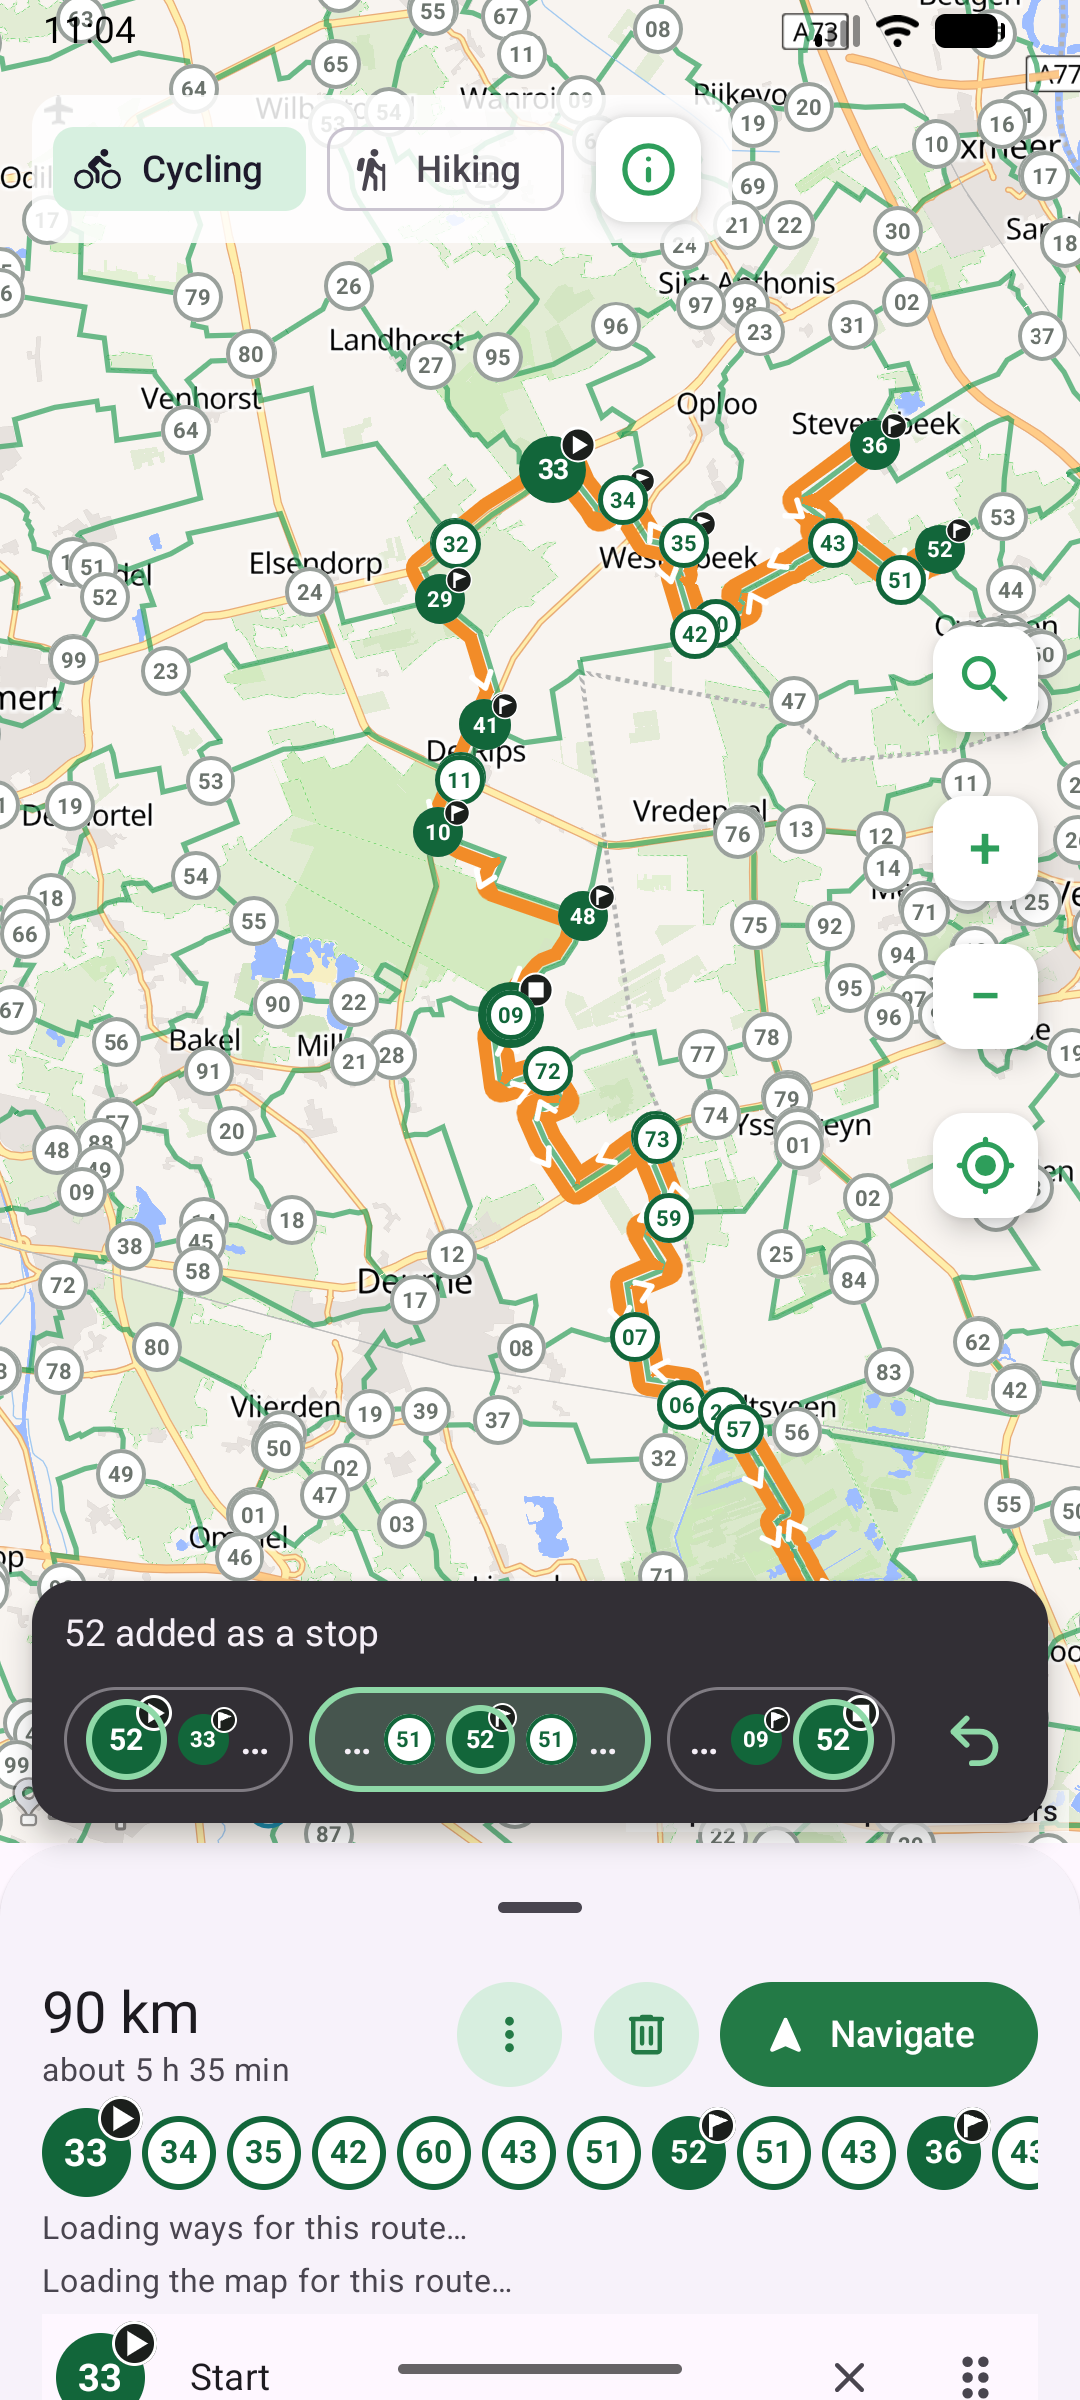
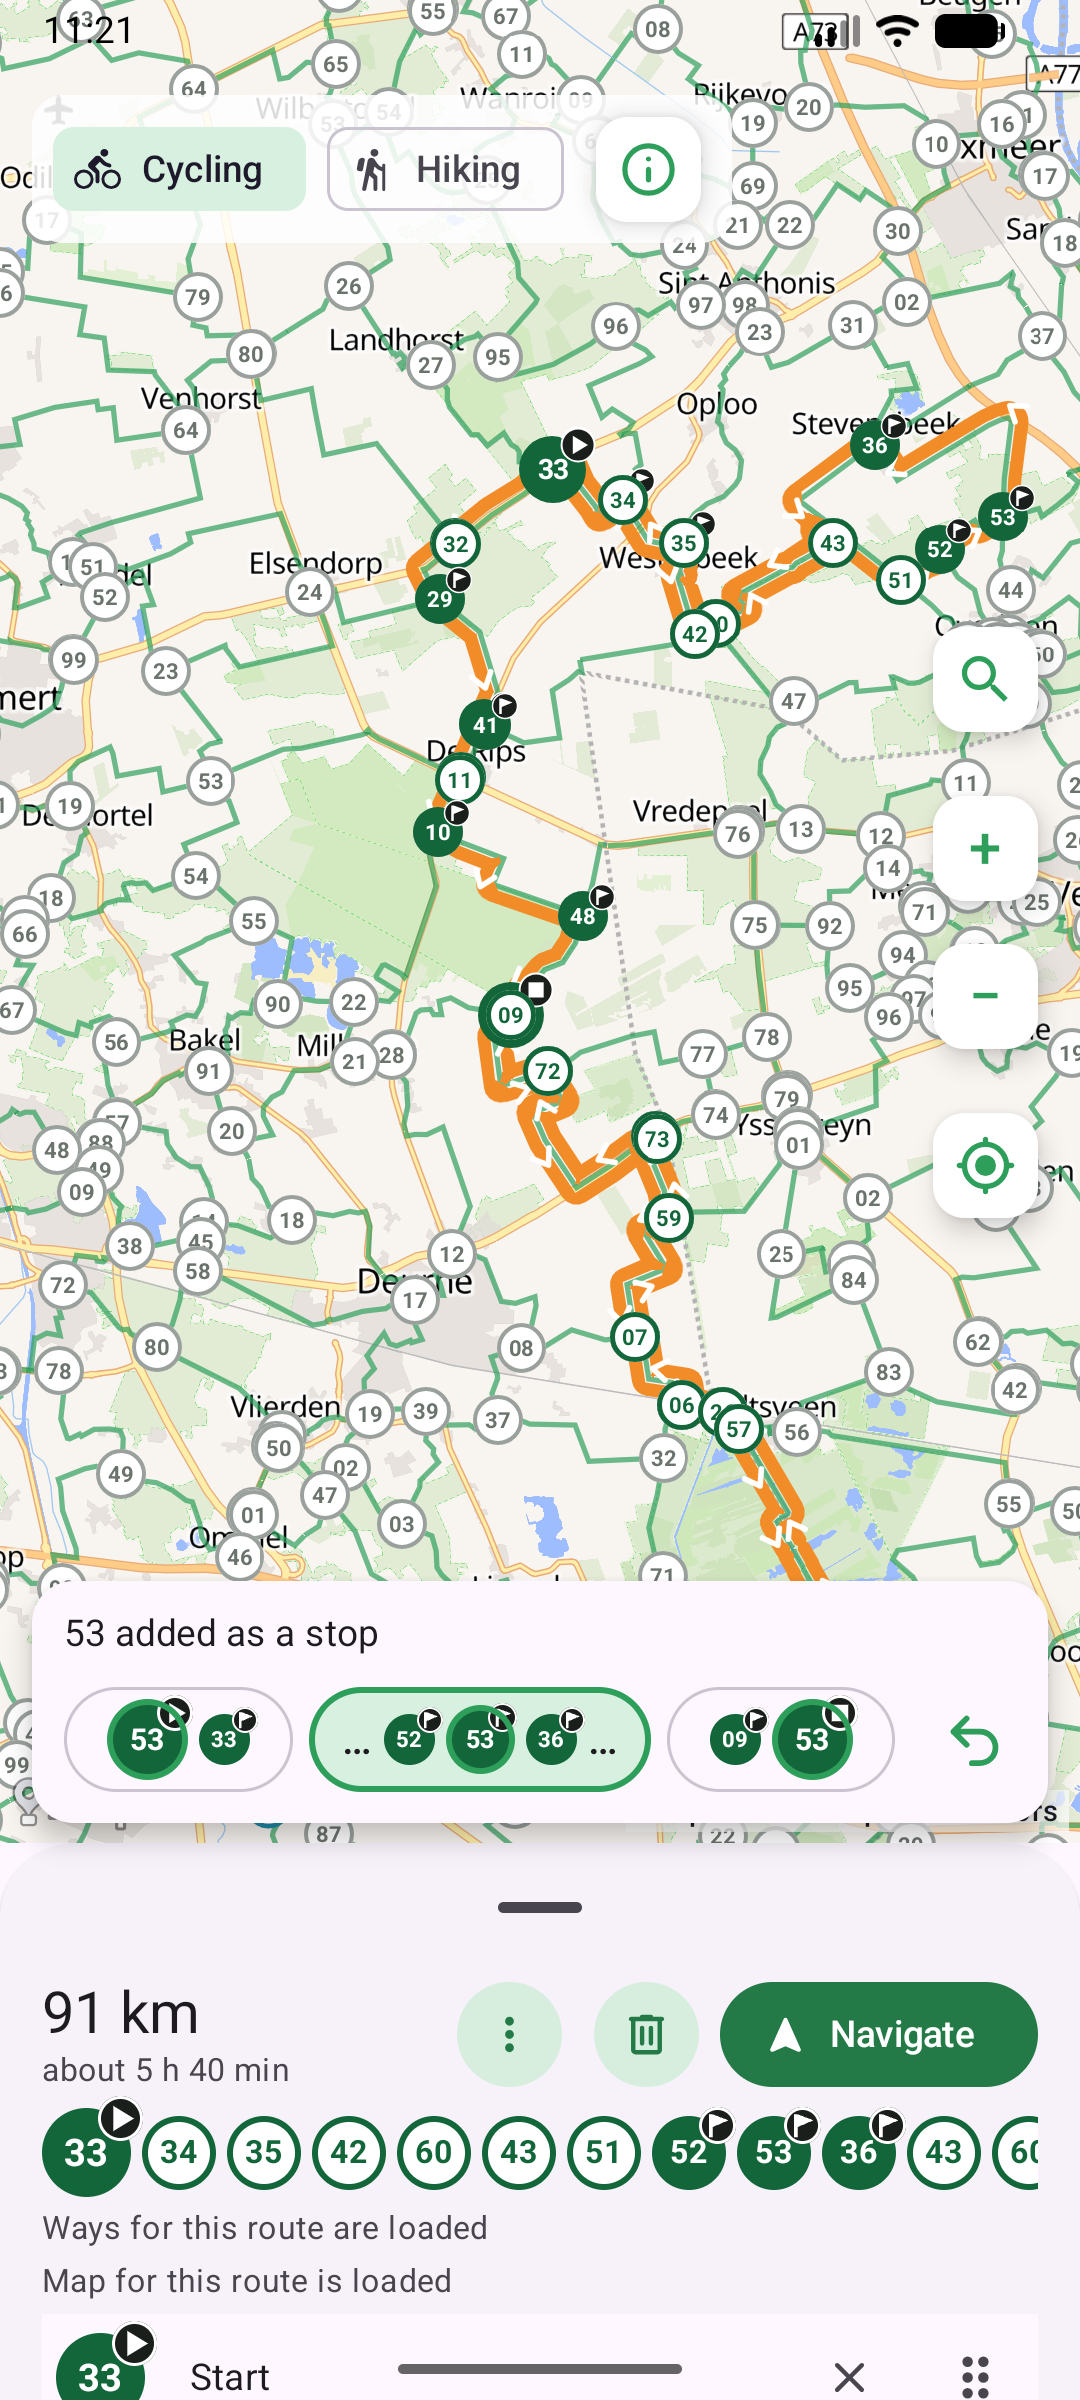
Light note on Android, Liquid Glass on iOS
The note after a tap holds buttons with badges, so on Android it now has the
panel's light surface instead of a dark snackbar's, and on iOS the floating
glass background of the map's other controls.

Claude-Session: https://claude.ai/code/session_01SYDZ2XdPXqQwKTCYKUKZEP

diff --git a/apps/android/src/main/kotlin/com/knoopbyknoop/android/PlannerScreen.kt b/apps/android/src/main/kotlin/com/knoopbyknoop/android/PlannerScreen.kt
@@ -777,10 +777,11 @@ private fun TapNoteCard(note: TapNote, viewModel: AppViewModel, modifier: Modifi
   LaunchedEffect(note.id) {
     pop.animateTo(1f, spring(dampingRatio = 0.45f, stiffness = Spring.StiffnessMediumLow))
   }
+  // Light like the panel and the map buttons, see "Changing what a tapped knot became".
   Surface(
     shape = MaterialTheme.shapes.large,
-    color = MaterialTheme.colorScheme.inverseSurface,
-    contentColor = MaterialTheme.colorScheme.inverseOnSurface,
+    color = MaterialTheme.colorScheme.surface,
+    contentColor = MaterialTheme.colorScheme.onSurface,
     shadowElevation = 6.dp,
     modifier = modifier.padding(horizontal = 12.dp, vertical = 8.dp).fillMaxWidth(),
   ) {
@@ -810,22 +811,21 @@ private fun TapNoteCard(note: TapNote, viewModel: AppViewModel, modifier: Modifi
                 WaypointRole.STOP -> R.string.tap_choice_as_stop
               }
             )
-          val selected = MaterialTheme.colorScheme.inversePrimary
+          val selected = MaterialTheme.colorScheme.primary
           OutlinedButton(
             onClick = { viewModel.chooseTap(choice) },
             enabled = !choice.current,
             contentPadding = PaddingValues(horizontal = 4.dp, vertical = 0.dp),
             colors =
               ButtonDefaults.outlinedButtonColors(
-                contentColor = MaterialTheme.colorScheme.inverseOnSurface,
-                disabledContentColor = MaterialTheme.colorScheme.inverseOnSurface,
-                disabledContainerColor = selected.copy(alpha = 0.22f),
+                contentColor = MaterialTheme.colorScheme.onSurface,
+                disabledContentColor = MaterialTheme.colorScheme.onSurface,
+                disabledContainerColor = MaterialTheme.colorScheme.secondaryContainer,
               ),
             border =
               BorderStroke(
                 if (choice.current) 2.dp else 1.dp,
-                if (choice.current) selected
-                else MaterialTheme.colorScheme.inverseOnSurface.copy(alpha = 0.4f),
+                if (choice.current) selected else MaterialTheme.colorScheme.outlineVariant,
               ),
             modifier =
               Modifier.weight(if (choice.role == WaypointRole.STOP) 1.5f else 1f)
@@ -842,7 +842,7 @@ private fun TapNoteCard(note: TapNote, viewModel: AppViewModel, modifier: Modifi
           Icon(
             painterResource(R.drawable.ic_undo),
             contentDescription = stringResource(R.string.tap_note_undo),
-            tint = MaterialTheme.colorScheme.inversePrimary,
+            tint = MaterialTheme.colorScheme.primary,
           )
         }
       }
@@ -882,7 +882,7 @@ private fun KnotPreviewRow(
                 scaleX = highlightScale
                 scaleY = highlightScale
               }
-              .border(2.dp, MaterialTheme.colorScheme.inversePrimary, CircleShape)
+              .border(2.dp, MaterialTheme.colorScheme.primary, CircleShape)
               .padding(2.dp)
           else Modifier.clearAndSetSemantics {},
       ) {

diff --git a/apps/android/src/main/kotlin/com/knoopbyknoop/android/Theme.kt b/apps/android/src/main/kotlin/com/knoopbyknoop/android/Theme.kt
@@ -17,9 +17,6 @@ private val lightColors =
     secondary = Color(0xFFF28C28),
     secondaryContainer = Color(0xFFD7F0E0),
     surfaceVariant = Color(0xFFEEF1EA),
-    // The green on the dark note after a tap, see `map-planning` "Changing what a tapped knot
-    // became".
-    inversePrimary = Color(0xFF8FD9A8),
   )
 
 /** The same green and orange on dark surfaces, see `map-planning` "Light and dark appearance". */
@@ -31,8 +28,6 @@ private val darkColors =
     secondaryContainer = Color(0xFF1E3B2B),
     onSecondaryContainer = Color(0xFFD7F0E0),
     surfaceVariant = Color(0xFF2B2F2A),
-    // The green on the light note after a tap.
-    inversePrimary = Color(0xFF1B6B3D),
     // A clear red, not Material's pale pink: at least 4.5:1 on the dark surfaces, see
     // `map-planning`
     // "Light and dark appearance".

diff --git a/apps/ios/KnoopByKnoop/PlannerView.swift b/apps/ios/KnoopByKnoop/PlannerView.swift
@@ -1298,8 +1298,8 @@ private struct TapNoteCard: View {
     }
     .padding(12)
     .frame(maxWidth: .infinity, alignment: .leading)
-    .background(.regularMaterial, in: RoundedRectangle(cornerRadius: 24))
-    .shadow(color: .black.opacity(0.16), radius: 10, y: 4)
+    // Liquid Glass like the map's other floating controls.
+    .floatingBackground(in: RoundedRectangle(cornerRadius: 24))
     .task(id: note.id) {
       pop = 0.3
       withAnimation(.spring(duration: 0.5, bounce: 0.5)) { pop = 1 }

diff --git a/openspec/changes/tap-adds-where-it-fits/design.md b/openspec/changes/tap-adds-where-it-fits/design.md
@@ -69,6 +69,8 @@ The top preview row is gone: the selected button shows it. The start button prev
 
 `TapOptions.choices` therefore always holds the three roles in that order, each with `current`.
 
+The Android note is light, like the panel and the map buttons, not a dark snackbar: it holds buttons with badges, not a passing message. The iPhone note uses the app's `floatingBackground`, Liquid Glass on iOS 26 (maintainer, 2026-11-12).
+
 ### Removing the switch
 
 `NewKnots` goes from the core, along with the switch composable and view, their icons and strings, and the stored setting. A stale stored value is simply ignored.
